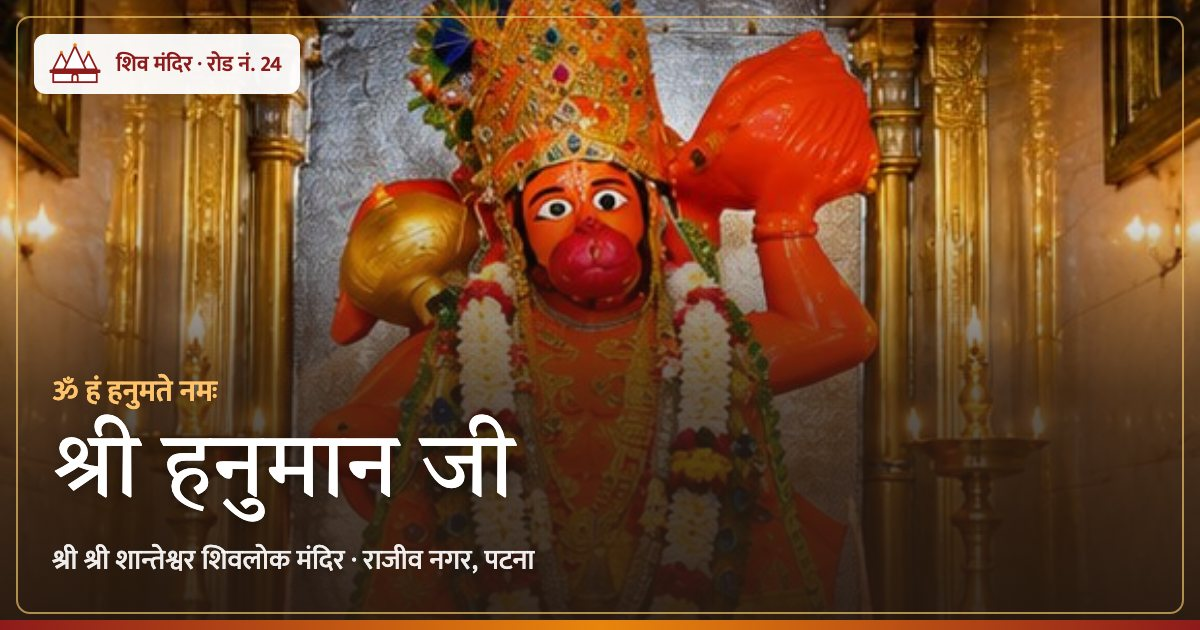
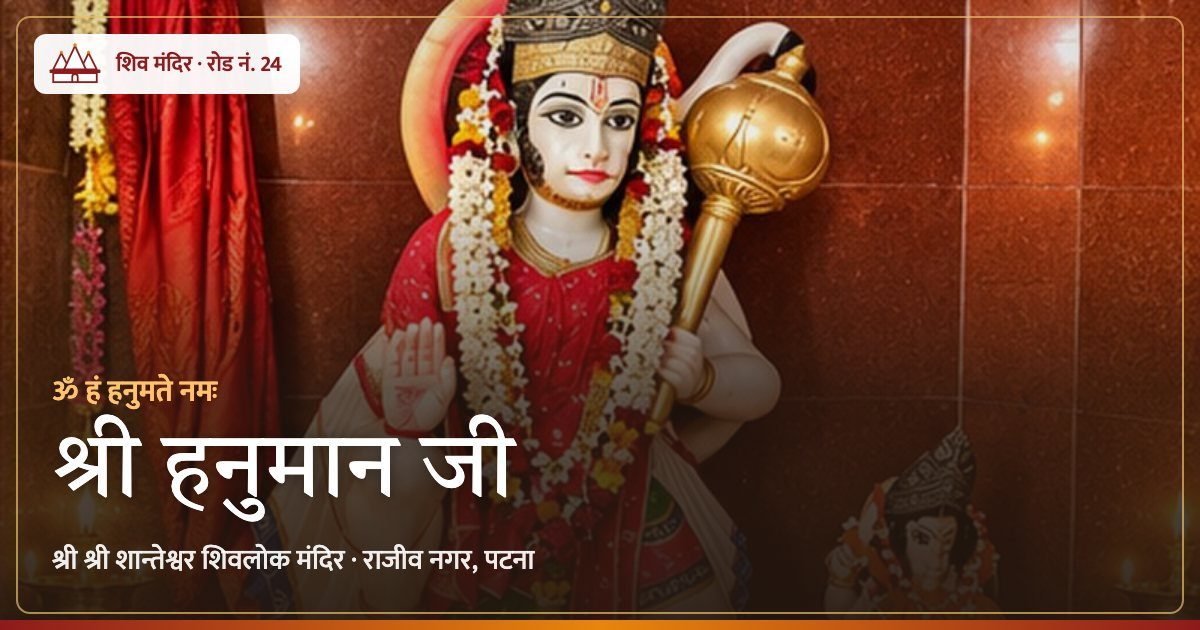
Use the mandir's actual deity photos
Replace all six deity images with photos of the temple's own murtis,
switch deity frames to 4:3 to fit them, and regenerate the share images.

diff --git a/src/components/DarshanOffering.tsx b/src/components/DarshanOffering.tsx
@@ -64,7 +64,7 @@ export function DarshanOffering({ image, name }: { image: string; name: string }
 
   return (
     <div className="grid gap-4">
-      <div ref={frame} className="relative aspect-[3/2] rounded-2xl overflow-hidden border-4 border-card ring-1 ring-gold/70 shadow-[0_14px_40px_rgba(35,23,15,0.16)] bg-saffron-soft">
+      <div ref={frame} className="relative aspect-[4/3] rounded-2xl overflow-hidden border-4 border-card ring-1 ring-gold/70 shadow-[0_14px_40px_rgba(35,23,15,0.16)] bg-saffron-soft">
         <Image src={image} alt={`${name} के दर्शन`} fill priority sizes="(min-width: 1024px) 640px, 100vw" className="object-cover" />
         <div aria-hidden="true" className="absolute inset-0 overflow-hidden pointer-events-none">
           {petals.map((p) => (

diff --git a/src/components/SiteFooter.tsx b/src/components/SiteFooter.tsx
@@ -30,7 +30,7 @@ export function SiteFooter() {
         </nav>
         <div className="grid gap-2 content-start text-ink-soft">
           <span className="eyebrow">जानकारी</span>
-          <p className="text-[0.9rem]">यह वेबसाइट का प्रथम प्रारूप है। चित्र प्रतीकात्मक हैं और कुछ जानकारी (समय, संपर्क) समिति द्वारा पुष्टि की जानी है।</p>
+          <p className="text-[0.9rem]">कुछ जानकारी (आरती समय, संपर्क) समिति द्वारा पुष्टि की जानी है।</p>
         </div>
       </div>
     </footer>

diff --git a/src/components/DeityCard.tsx b/src/components/DeityCard.tsx
@@ -8,7 +8,7 @@ export function DeityCard({ d, priority = false }: { d: Deity; priority?: boolea
       href={`/darshan/${d.slug}`}
       className="group grid bg-card rounded-2xl overflow-hidden border border-line no-underline text-ink hover:border-gold hover:shadow-[0_8px_24px_rgba(35,23,15,0.10)] transition-[border-color,box-shadow]"
     >
-      <div className="relative aspect-[3/2] overflow-hidden bg-saffron-soft">
+      <div className="relative aspect-[4/3] overflow-hidden bg-saffron-soft">
         <Image
           src={d.image}
           alt={`${d.name} के दर्शन`}

diff --git a/src/lib/deities.ts b/src/lib/deities.ts
@@ -10,7 +10,7 @@ export type Deity = {
   image: string;
 };
 
-// Photos supplied by the committee (AI-generated representations until real darshan photos are taken).
+// Photos of the mandir's own murtis, supplied by the committee.
 export const DEITIES: Deity[] = [
   {
     slug: "shivling",
